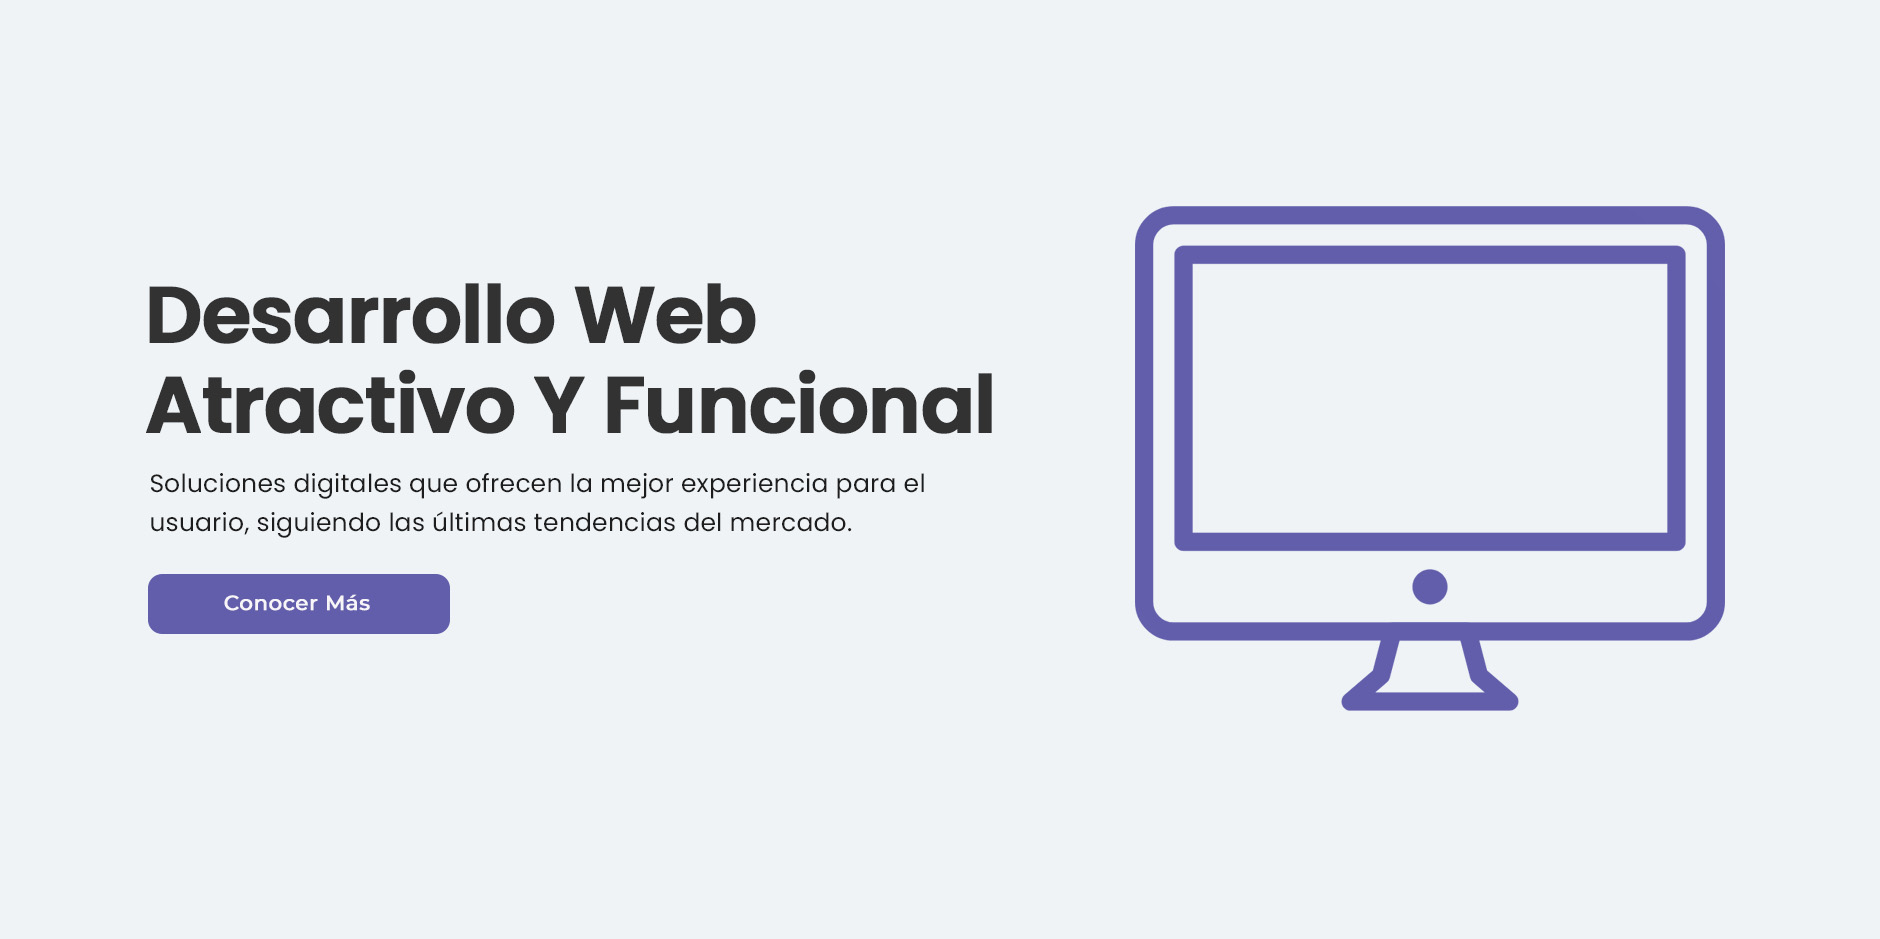
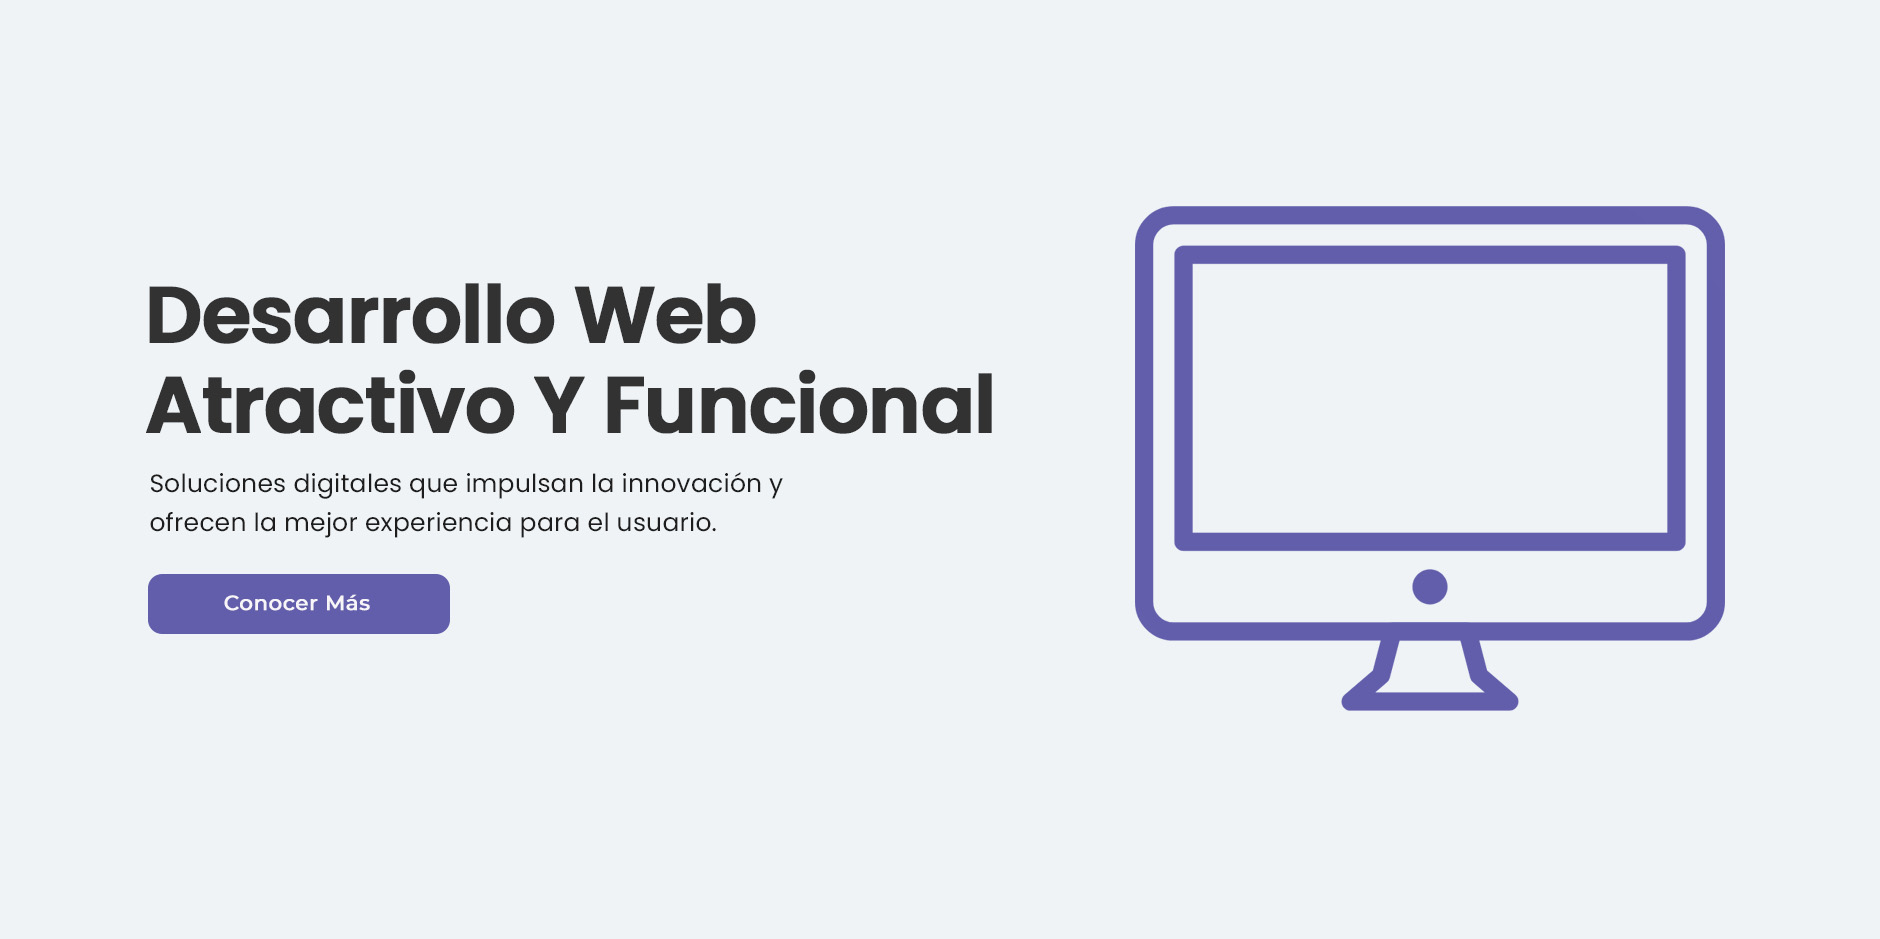
Modificar información

Changed region(s): [[0.0926, 0.4941, 0.4936, 0.5868]]

diff --git a/js/indexTranslations.js b/js/indexTranslations.js
@@ -10,7 +10,7 @@ export const indexTranslations = {
 
     /* Home */
     homeTitle: "Desarrollo web atractivo y funcional",
-    homeParagraph: "Soluciones digitales que ofrecen la mejor experiencia para el usuario, impulsando la innovación.",
+    homeParagraph: "Soluciones digitales que impulsan la innovación y ofrecen la mejor experiencia para el usuario.",
     homeBtn: "Conocer Más",
 
     /* Modal CV */
@@ -88,7 +88,7 @@ export const indexTranslations = {
 
     /* Home */
     homeTitle: "Attractive and Functional Web Development",
-    homeParagraph: "Digital solutions that provide the best user experience, driving innovation.",
+    homeParagraph: "Digital solutions that drive innovation and provide the best user experience.",
     homeBtn: "Learn More",
 
     /* Modal CV */
@@ -166,7 +166,7 @@ export const indexTranslations = {
 
     /* Home */
     homeTitle: "Desenvolvimento web atraente e funcional",
-    homeParagraph: "Soluções digitais que oferecem a melhor experiência para o usuário, impulsionando a inovação.",
+    homeParagraph: "Soluções digitais que impulsionam a inovação e oferecem a melhor experiência para o usuário.",
     homeBtn: "Conhecer mais",
 
     /* Modal CV */

diff --git a/index.html b/index.html
@@ -161,8 +161,8 @@
       <div class="container">
         <div class="col-1">
           <h1 class="home-title" data-key="homeTitle">Desarrollo web atractivo y funcional</h1>
-          <p class="home-paragraph" data-key="homeParagraph">Soluciones digitales que ofrecen la
-            mejor experiencia para el usuario, impulsando la innovación.</p>
+          <p class="home-paragraph" data-key="homeParagraph">Soluciones digitales que impulsan la innovación y ofrecen
+            la mejor experiencia para el usuario.</p>
           <div class="home-container-btn">
             <a href="#about" class="home-btn">
               <span data-key="homeBtn">Conocer Más</span>
